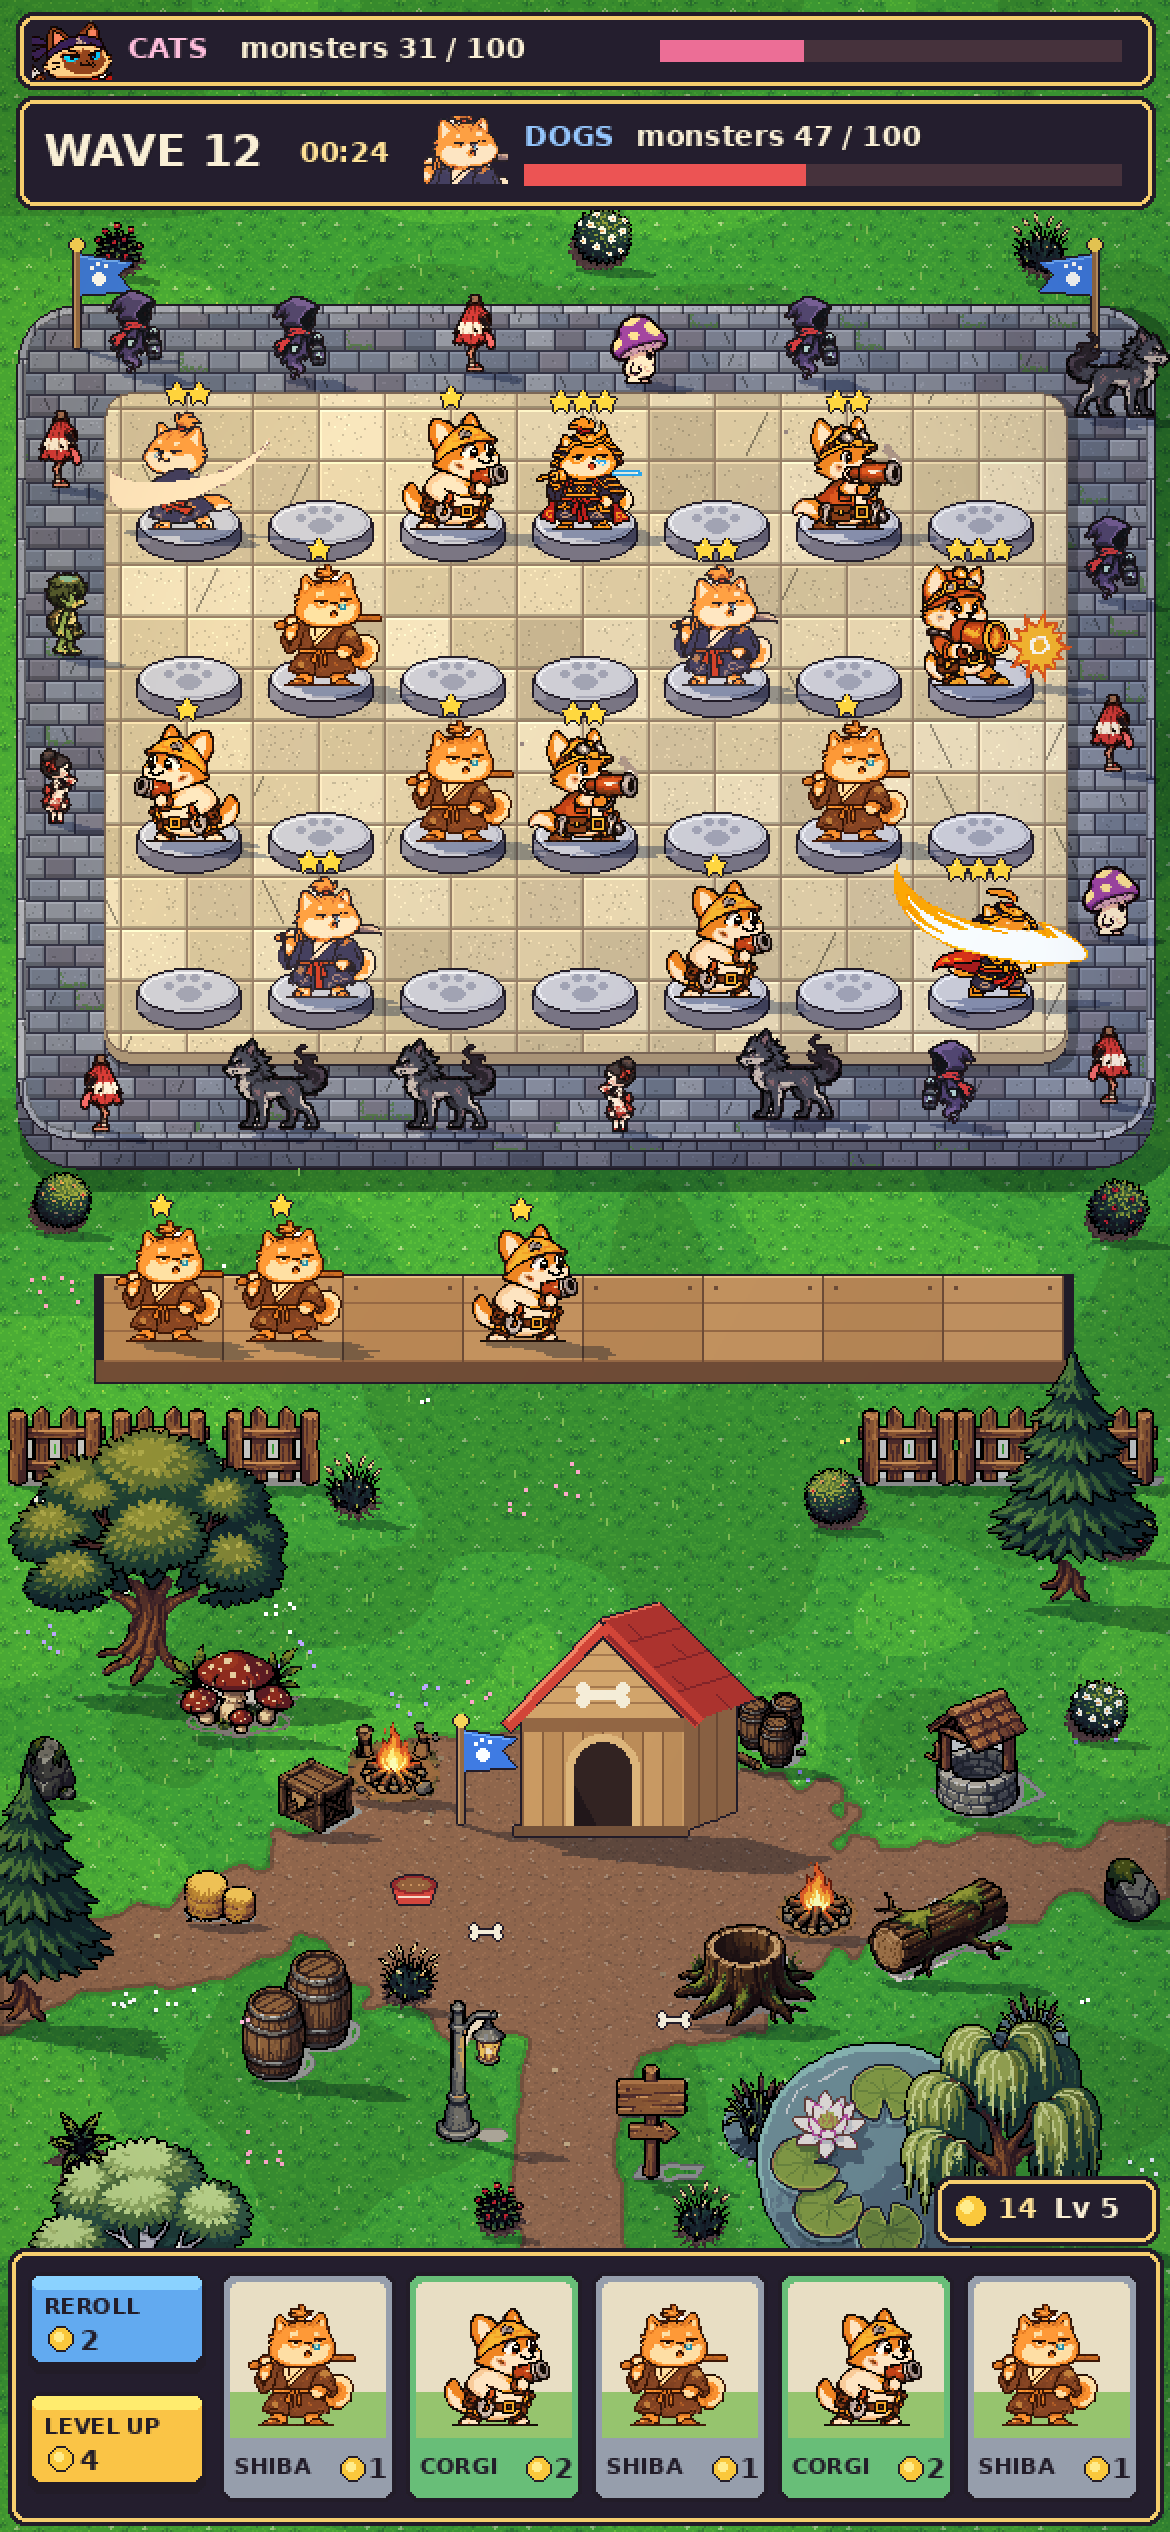
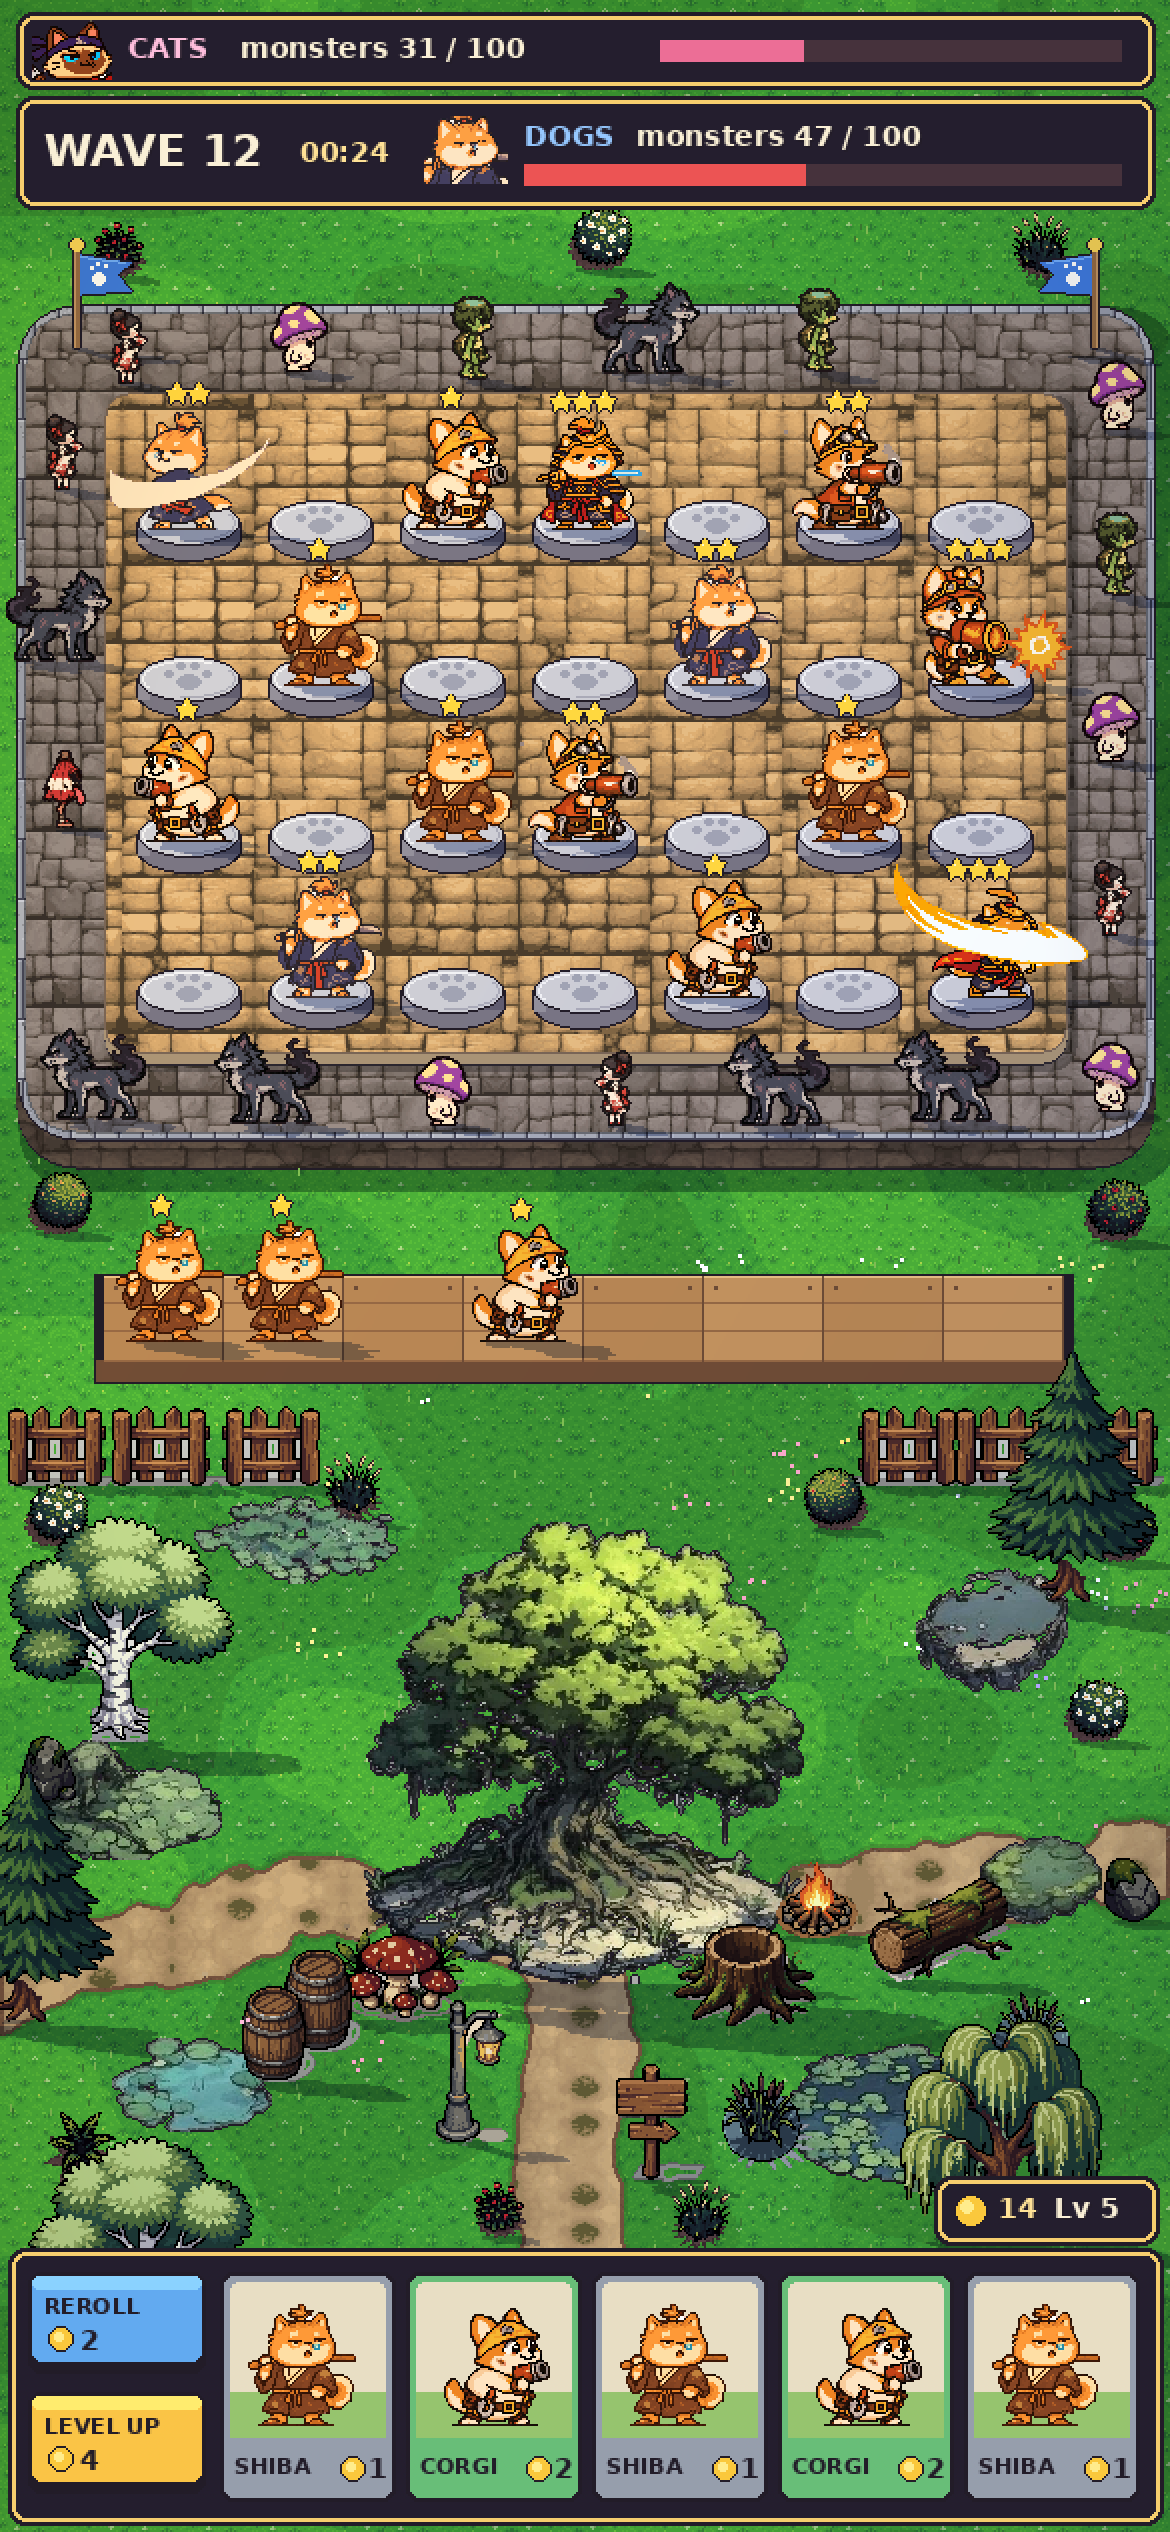
Dogs vs cats scene: no dog house, swamp-sheet tree and ponds, board stone from the owner's tile sheet
Claude-Session: https://claude.ai/code/session_01TXxUxQ6wjWh66ESj3NLopA

diff --git a/tools/art/tw_scene.py b/tools/art/tw_scene.py
@@ -53,8 +53,9 @@ def blob(cx, cy, rx, ry): return ((xx - cx) / rx) ** 2 + ((yy - cy) / ry) ** 2 +
 def seg(x0, y0, x1, y1, r):
     dx, dy = x1 - x0, y1 - y0; t = np.clip(((xx - x0) * dx + (yy - y0) * dy) / (dx * dx + dy * dy), 0, 1)
     return np.hypot(xx - (x0 + t * dx), yy - (y0 + t * dy)) + (N24 - .5) * 16 + (N9 - .5) * 6 < r
+import os; HOUSE = os.environ.get('HOUSE') == '1'
 HX, HY = 292, 918                                                   # the dog house's door step
-dirt = blob(HX, HY + 26, 150, 78) | seg(HX, HY + 40, HX - 10, 1130, 26) | seg(HX - 120, HY + 30, 0, HY + 70, 20) | seg(HX + 120, HY + 30, W, HY + 10, 20)
+dirt = (blob(HX, HY + 26, 150, 78) if HOUSE else blob(HX, HY + 40, 60, 30)) | seg(HX, HY + 40, HX - 10, 1130, 26) | seg(HX - 120, HY + 30, 0, HY + 70, 20) | seg(HX + 120, HY + 30, W, HY + 10, 20)
 img[dirt] = DIRT[dirt]
 e = dirt & ~ndimage.binary_erosion(dirt, iterations=2); img[e] *= .8
 e = ndimage.binary_dilation(dirt, iterations=2) & ~dirt; img[e] = img[e] * .7 + np.array([52, 92, 40]) * .3
@@ -75,6 +76,17 @@ ROAD = blocks(H, W, 15, 11, [(126, 132, 150), (112, 120, 140), (140, 144, 158), 
 FLOOR = blocks(H, W, 33, 26, [(226, 208, 170), (214, 196, 158), (234, 218, 184), (206, 188, 154)], seed=5, bond=False, lip=1, x0=-(GX % 33), y0=-(GY % 26), mortar=(150, 126, 104))
 WALL = blocks(H, W, 17, 8, [(92, 96, 116), (82, 86, 106), (100, 100, 118)], seed=7, lip=0, mortar=(40, 38, 52), moss=.16)
 KERB = blocks(H, W, 12, 30, [(176, 178, 190), (162, 166, 182)], seed=9, lip=0, mortar=(70, 70, 88))
+# owner 2026-11-12 "เอาพื้นไปใส่สวยๆ" (the painted tile sheet, tools/art/floor_sheet.py): grey slab groups for the loop, warm slab
+# groups for the dais (one group per half cell, so the joints follow the slots), each cut to few colours with more contrast
+if os.environ.get('TEX', 'sheet') == 'sheet':
+    import floor_sheet as FS
+    def punch(a, k=1.28, lift=1.0, tint=(1, 1, 1)):
+        m = a.reshape(-1, 3).mean(0); a = (m + (a - m) * k) * lift * np.array(tint)
+        return np.asarray(Image.fromarray(np.clip(a, 0, 255).astype(np.uint8)).quantize(14, method=Image.Quantize.MEDIANCUT, dither=Image.Dither.NONE).convert('RGB')).astype(float)
+    ROAD = punch(FS.patchwork(['f23', 'f29', 'f12'], W, H, 48, 44, x0=BX, y0=BY, seed=4), 1.3, .86, (.94, .97, 1.1))
+    FLOOR = punch(FS.patchwork(['f34', 'f25', 'f8'], W, H, CW, CH // 2, x0=GX, y0=GY, seed=6), 1.25, 1.2, (1.04, 1.0, .9))
+    WALL = punch(FS.mirror_tile(FS.px(FS.crop('road')), W, H), 1.2, .6, (.9, .92, 1.1))
+    DIRT2 = punch(FS.mirror_tile(FS.px(FS.crop('dirt').crop((0, 0, 190, 60))), W, H), 1.0, 1.02); img[dirt & ndimage.binary_erosion(dirt, iterations=2)] = DIRT2[dirt & ndimage.binary_erosion(dirt, iterations=2)]
 wall = down(plat, 13) & ~plat
 sh = (down(right(plat | wall, 12), 12)) & ~plat & ~wall; img[sh] = img[sh] * np.array([.62, .68, .74])     # the platform's shadow on the grass
 img[ring] = ROAD[ring]; img[inner] = FLOOR[inner]; img[wall] = WALL[wall]
@@ -215,12 +227,19 @@ for i in range(BN):
 for i, (kind, s) in ((0, ('shiba', 1)), (1, ('shiba', 1)), (3, ('corgi', 1))):
     im, an = unit(kind, s, 'idle'); cx = bx0 + i * BWd + BWd // 2 - 1; put(im, cx, byy + 30, anchor=an); stars.append((cx, byy + 30 - (an[1] - an[2]) - 13, s))
 # ---------- the yard
-put(kennel(), HX + 10, HY); put(flag(), HX - 62, HY - 6); put(bowl(), HX - 86, HY + 34, sh=False); put(bone(), HX - 50, HY + 52, sh=False); put(flip(bone()), HX + 44, HY + 96, sh=False)
-YARD = [('trees_green_0', 2, 74, 842), ('trees_green_1', 2, 536, 800), ('trees_green_3', 2, 500, 1118), ('trees_green_2', 2, 70, 1180), ('trees_green_1', 2, 14, 1010),
+# owner "เอาบ้านมาทำไม" + a painted swamp sheet "เอาไปตกแต่ง" (art/incoming/dogcat/swamp/, cut by swamp boxes): no dog house; the big old tree
+# on its sandy mound is the yard's centrepiece, the lily ponds and moss lie on the grass (reduce() by whole numbers, 1 px ink line)
+def swamp(n, k): return Image.fromarray(outline(np.asarray(crop(reduce(Image.open(DC + 'swamp/' + n + '.png'), k))), pale=999, black=INK).astype(np.uint8))
+if HOUSE: put(kennel(), HX + 10, HY); put(flag(), HX - 62, HY - 6); put(bowl(), HX - 86, HY + 34, sh=False)
+else:
+    t_ = swamp('tree', 3); put(t_, HX, HY + 44, anchor=(t_.width // 2, t_.height - 30, 0))
+    for n, k, x, y in (('lily_dark', 3, 452, 1096), ('pond_blue', 2, 96, 1066), ('moss', 2, 520, 962), ('lily_patch', 3, 150, 792), ('stump', 3, 60, 930), ('pond_rock', 2, 496, 846)):
+        im = swamp(n, k); items.append((y - im.height // 2 - 400, im, x - im.width // 2, y - im.height, False))
+YARD = [('trees_green_2', 2, 60, 870), ('trees_green_1', 2, 536, 800), ('trees_green_3', 2, 500, 1118), ('trees_green_2', 2, 70, 1180), ('trees_green_1', 2, 14, 1010),
         ('village_1', 2, 30, 742), ('village_1', 2, 82, 742), ('village_1', 2, 134, 742), ('village_1', 2, 452, 742), ('village_1', 2, 504, 742), ('village_1', 2, 556, 742),
-        ('camp_1', 3, 408, 968), ('logs2_0', 3, 470, 990), ('logs2_1', 3, 372, 1012), ('camp_4', 3, 196, 900), ('camp_2', 3, 160, 916), ('camp_7', 3, 386, 884),
-        ('village_5', 2, 492, 908), ('village_7', 3, 110, 962), ('village_3', 2, 330, 1090), ('village_4', 2, 236, 1070), ('camp_5', 2, 150, 1040),
-        ('water_0', 1, 440, 1100), ('water_3', 3, 384, 1084), ('water_4', 3, 512, 1042), ('logs2_3', 3, 118, 868), ('stones_9', 3, 566, 960), ('stones_1', 3, 24, 900),
+        ('camp_1', 3, 408, 968), ('logs2_0', 3, 470, 990), ('logs2_1', 3, 372, 1012), ('camp_7', 3, 30, 836),
+        ('village_3', 2, 330, 1090), ('village_4', 2, 236, 1070), ('camp_5', 2, 150, 1040),
+        ('water_3', 3, 384, 1084), ('water_4', 3, 512, 1042), ('logs2_3', 3, 200, 1010), ('stones_9', 3, 566, 960), ('stones_1', 3, 24, 900),
         ('bushes_1', 3, 28, 772), ('bushes_3', 3, 176, 760), ('bushes_0', 3, 418, 764), ('bushes_5', 3, 562, 780), ('bushes_9', 3, 250, 1118), ('bushes_1', 3, 548, 870),
         ('bushes_6', 3, 204, 1004), ('bushes_10', 3, 40, 1090), ('bushes_3', 3, 350, 1124), ('bushes_0', 3, 30, 616), ('bushes_5', 3, 558, 620), ('bushes_1', 3, 300, 134), ('bushes_9', 3, 60, 138), ('bushes_3', 3, 520, 140)]
 for n, k, x, y in YARD:
